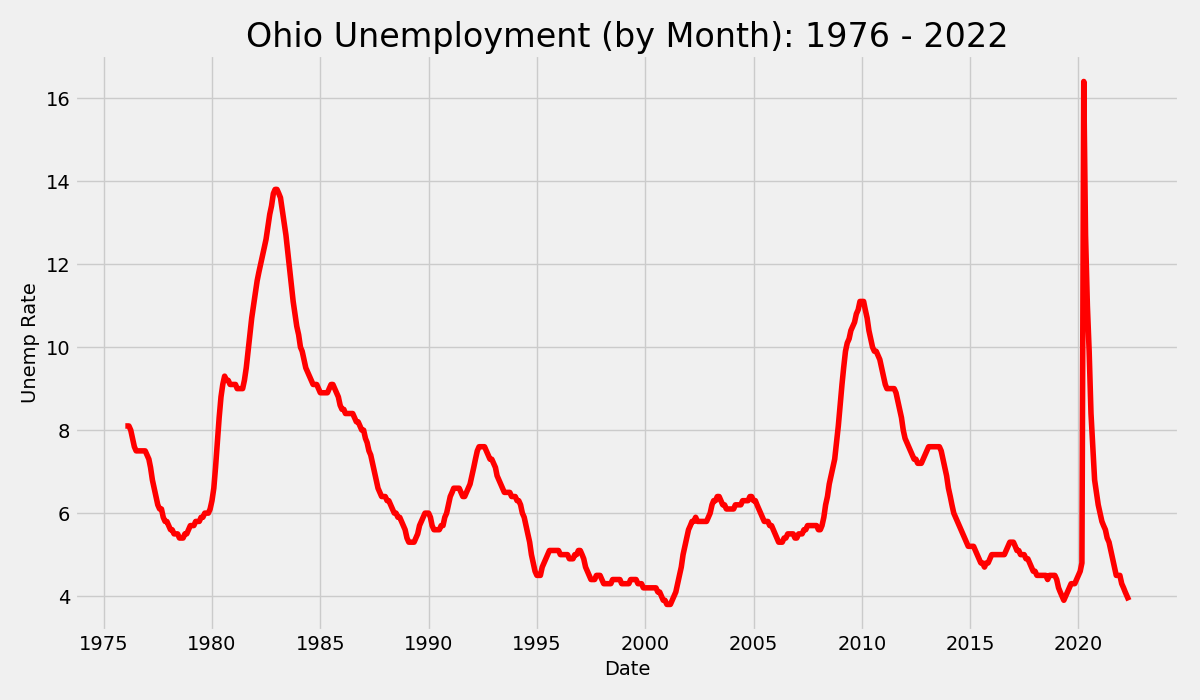
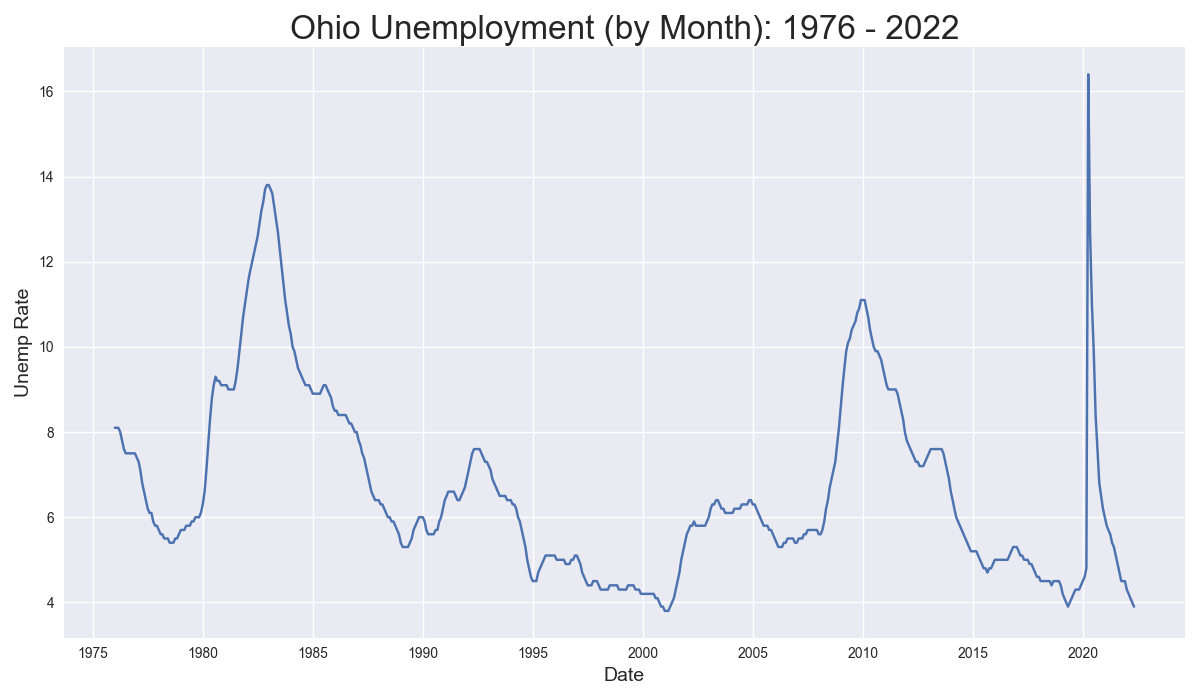
rewrote create_plot in order to better generate 2 different files. successfully created 2 images with different datasets

diff --git a/Lab16_xenzonz-1.py b/Lab16_xenzonz-1.py
@@ -39,28 +39,48 @@ def read_data(filename):
     return dates, unemployment_rates
 
 
-def create_plot(dates, unemployment_rates):
-    plt.style.use("fivethirtyeight")
-    plt.figure(figsize=(12, 7))
-    plt.plot(dates, unemployment_rates, color="red")
+def create_plot(dates, values, title, y_label, output_filename):
+    plt.style.use("seaborn-v0_8")
 
-    plt.title("Ohio Unemployment (by Month): 1976 - 2022", fontsize=24)
+    plt.figure(figsize=(12, 7))
+    plt.plot(dates, values)
+
+    plt.title(title, fontsize=24)
     plt.xlabel("Date", fontsize=14)
-    plt.ylabel("Unemp Rate", fontsize=14)
+    plt.ylabel(y_label, fontsize=14)
 
     plt.grid(True)
     plt.tight_layout()
-
-    plt.savefig("ohio_unemployment.png")
+    plt.savefig(output_filename)
 
 
 
     
 
 def main():
+
     filename = "OHUR.csv"
     dates, unemployment_rates = read_data(filename)
-    create_plot(dates, unemployment_rates)
+
+
+    create_plot(
+        dates,
+        unemployment_rates,
+        "Ohio Unemployment (by Month): 1976 - 2022",
+        "Unemp Rate",
+        "ohio_unemployment.png"
+    )
+
+    gold_filename = "GVZCLS.csv"
+    gold_dates, gold_values = read_data(gold_filename)
+
+    create_plot(
+        gold_dates,
+        gold_values,
+        "Gold Volatility Index",
+        "GVZCLS",
+        "gold_volatility.png"
+    )
 
 
 if __name__ == "__main__":